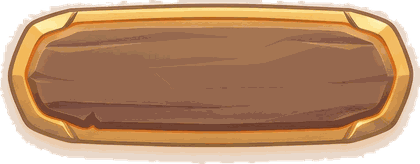
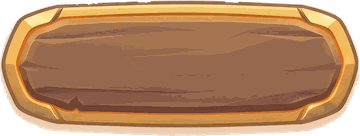
סידור המסכים לטלפון: כפתורים שלא נמתחים, בלי שוליים לבנים, מסגרת דקה, וחלון הציוד בשלושה טורים
ניר, 31.10.2026: "הפרופורציות לא טובות". צילום של כל המסכים ברוחב טלפון שוכב, ותיקון לפי מה שנראה

Claude-Session: https://claude.ai/code/session_01ABMDoJVRssjwPQfQardvqA

diff --git a/css/style.css b/css/style.css
@@ -513,13 +513,6 @@ body:has(#ovStart:not([hidden])) .mute{top:max(14px,env(safe-area-inset-top,0px)
 .stplus:active{transform:translateY(2px);box-shadow:0 1px 0 #9A7A22}
 .stplus:disabled{background:var(--line);color:var(--dim);box-shadow:none;cursor:default}
 .gfig{cursor:pointer}
-@media (orientation:landscape) and (max-height:500px){
-  /* בלי פריט נבחר: הנקודות מקבלות את רוב הגובה, והתרמיל מתקצר */
-  #ovGear.stv .gbody{grid-template-rows:auto minmax(0,1fr)}
-  #ovGear.stv .gbag{max-height:34vh}
-  #ovGear.stv .gsidep{max-height:none}
-  .strows{display:grid;grid-template-columns:1fr 1fr}
-}
 /* עץ הסקילים (js/stats.js): שלושה ענפים בטורים, בתוך חלון הציוד */
 .gtree{display:flex;flex-direction:column;gap:8px;min-height:0;flex:1;overflow:hidden}
 .trtop{display:flex;align-items:center;gap:10px}.trtop .vbtn{padding:8px 12px;font-size:14px}.trtop .stfree{margin:0}
@@ -551,3 +544,22 @@ body:has(#ovStart:not([hidden])) .mute{top:max(14px,env(safe-area-inset-top,0px)
 @media (orientation:landscape) and (max-height:500px){#qBtn .ni,#gearBtn .ni{width:28px;height:28px}}
 .trkey{margin:4px 0 0;font:800 11px var(--body);color:var(--gold)}.tror{margin:-2px 0;text-align:center;font:700 11px var(--body);color:var(--dim)}.trn.gone{opacity:.3}
 .bname{color:var(--chalk);background:rgba(255,138,61,.2);border:1px solid var(--ember);border-radius:8px;padding:0 6px}
+
+/* ===== סידור המסכים לטלפון לרוחב (ניר, 31.10.2026: "הפרופורציות לא טובות") =====
+   מסגרת דקה יותר, כפתורים שלא נמתחים (border-image: הקצוות נשארים בצורתם, והאמצע נמתח), ומסך הציוד בשלושה טורים */
+.win{border-width:20px;border-image:url(../icons/ui/frame.png) 76 fill / 20px stretch}
+.vbtn{background:none;border:0 solid transparent;border-width:0 34px;border-image:url(../icons/ui/btn-gold.png) 0 120 fill / 0 34px stretch;padding:11px 4px;min-height:46px;border-radius:0}
+.vbtn:disabled{background:none;border-image-source:url(../icons/ui/btn-off.png)}
+.vbtn.ghost{background:none;border-image-source:url(../icons/ui/btn-dark.png);border-width:0 30px;border-image-width:0 30px}
+.gbtns,.vpanel .vbtn{align-self:center;width:100%;max-width:320px}
+.gbtns{display:flex;flex-direction:column;align-items:center;gap:6px;margin-inline:auto}
+@media (orientation:landscape) and (max-height:500px){
+  .gbody{grid-template-columns:minmax(0,.85fr) minmax(0,1.15fr) minmax(0,1fr);grid-template-rows:minmax(0,1fr);grid-template-areas:"doll bag side"}
+  .gsidep{max-height:none;overflow-y:auto;min-height:0}
+  .gbag{min-height:0;overflow:hidden}.gbag .ggrid{overflow-y:auto;min-height:0}
+  .ggrid{grid-template-columns:repeat(auto-fill,minmax(50px,1fr))}
+  .gdoll .gtile{width:44px}#ovGear .gd-start .gtile{width:52px;font-size:26px}#ovGear .gd-under .gtile{flex:0 1 36px;width:36px}
+  .gfig span{font-size:clamp(48px,14vh,80px)}
+  .strows{display:flex}
+  .vbtn{min-height:42px;padding:9px 4px;font-size:15px}
+}
